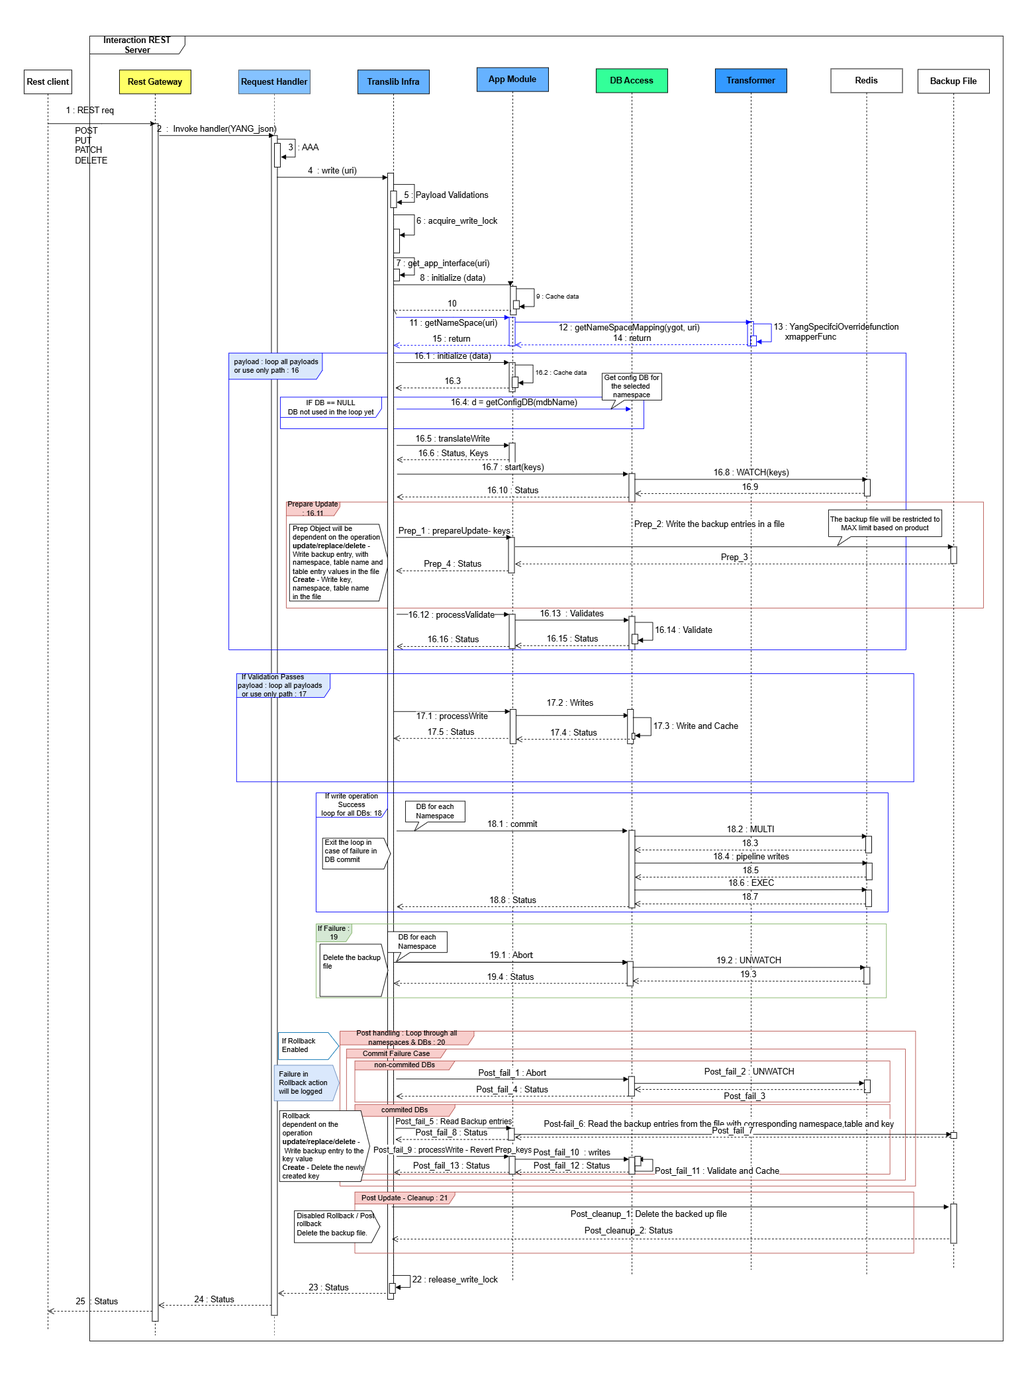
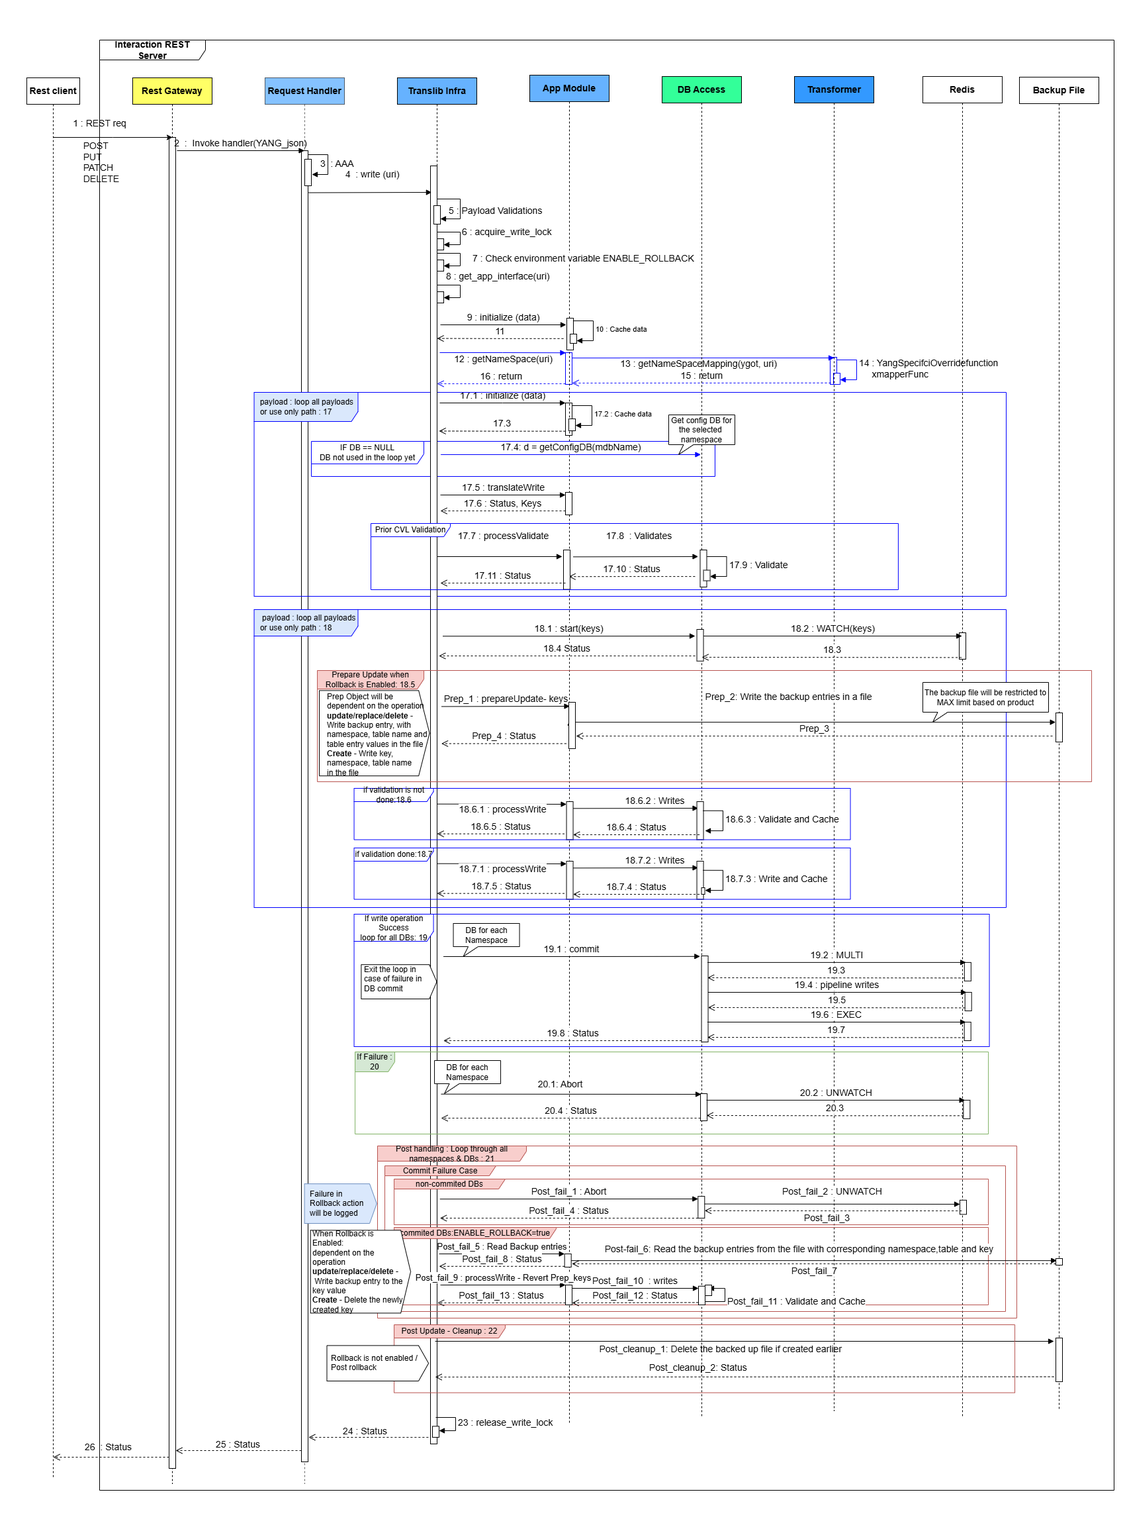
Updated HLD and sequence diagrams for prior CVL validation and configurable rollback

diff --git a/doc/mgmt/Management Framework.md b/doc/mgmt/Management Framework.md
@@ -2635,39 +2635,45 @@ mechanism for the app specific configuration.
 4. Request handler invokes one of the write APIs exposed by the Translib.
 5. Translib infra populates the YGOT structure with the payload of the request and performs a syntactic validation.
 6. Translib acquires the write lock (mutex lock) to avoid another write happening from the same process at the same time.
-7. Translib infra gets the App module corresponding to the incoming URI.
-8. Initialize the APP module with request data
-9. App module caches the incoming data into the app structure.
-10. App module returns after initializing local data.
-11. Translib infra invokes App module getNamespace() API to get namespace associated with the ygot and path.
-12. App module invokes transformer service getNamespaceMapping() to retrieve namespace based on Yang model.
-13. Transformer invokes Yang model-based exception to retrieve the namespace associated with ygot and URI.
-14. Transformer returns namespace associated with the ygot and URI.
-15. App module returns namespace.
-16. Loop through all Payloads —
+7. Check environment variable ENABLE_ROLLBACK
+8. Translib infra gets the App module corresponding to the incoming URI.
+9. Initialize the APP module with request data
+10. App module caches the incoming data into the app structure.
+11. App module returns after initializing local data.
+12. Translib infra invokes App module getNamespace() API to get namespace associated with the ygot and path.
+13. App module invokes transformer service getNamespaceMapping() to retrieve namespace based on Yang model.
+14. Transformer invokes Yang model-based exception to retrieve the namespace associated with ygot and URI.
+15. Transformer returns namespace associated with the ygot and URI.
+16. App module returns namespace.
+17. Loop through all Payloads
     1. Initialize the APP module with request data
     2. App module caches the incoming data into the app structure.
     3. App module returns after initializing local data.
     4. Get DB for the selected payload namespace
     5. App module calls Transformer function to translate the request from cached YGOT structures into Redis ABNF format. It also gets all the keys that will be affected as part of this request.
-    6. App module returns the list of keys that it wants to keep a watch on along with the status.
-    7. Translib infra invokes the start transaction request exposed by the DB access layer.
-    8. DB access layer performs a WATCH of all the keys in the Redis DB.
-    9. Status being returned from Redis.
+    6. App module returns the list of keys along with the status.
+    7. Translib then invokes the processValidate() API on the App module. 
+    8. App modules perform validation of the translated data to the DB access layer.
+    9. DB access layer validates the operation using CVL.
     10. Status being returned from DB access layer.
-    11. Translib then invokes the prepareUpdate() API on the App module. For Update, Replace, or Delete operations existing row entry for corresponding request's key is fetched from database and the following (table_name, key, row entry, operation) are written in a backup file based on namespace. For Create, only the key and table_name and operation is written in the backup file.
-    12. Translib then invokes the processValidate() API on the App module.
-    13. App modules perform validation of the translated data to the DB access layer.
-    14. DB access layer validates the operation using CVL.
-    15. Status being returned from DB access layer (validation result only).
-    16. Status being returned from App module.
-17. If Validation on all Payloads is successful:
-    1. Translib invokes the processWrite() API on the App module.
-    2. App modules perform actual writes of the translated data to the DB access layer.
-    3. DB access layer caches the writes.
+    11. Status being returned from App module.
+18. If Validation on all Payloads is successful: 
+    1. Translib infra invokes the start transaction request exposed by the DB access layer.
+    2. DB access layer performs a WATCH of all the keys in the Redis DB.
+    3. Status being returned from Redis.
     4. Status being returned from DB access layer.
-    5. Status being returned from App module.
-18. If operation on all payloads in Step 17 is successful:
+    5. Translib then invokes the prepareUpdate() API on the App module only if ENABLE_ROLLBACK=true. For Update, Replace, or Delete operations existing row entry for corresponding request's key is fetched from database and the following (table_name, key, row entry, operation) are written in a backup file based on namespace. For Create, only the key and table_name and operation is written in the backup file.
+    6. Translib invokes the processWrite() API on the App module. If validation is not done processWrite() performs CVL validation and write together.
+	1. App modules perform writes of the translated data to the DB access layer.
+	2. DB access layer validates the writes using CVL and then caches them
+	3. Status being returned from DB access layer.
+	4. Status being returned from App module.
+    7. Translib invokes the processWrite() API on the App module. If validation is already done processWrite() performs only write operation.
+	1. App modules perform actual writes of the translated data to the DB access layer.
+	2. DB access layer caches the writes .
+	3. Status being returned from DB access layer.
+	4. Status being returned from App module.
+19. If operation on all payloads in Step 17 is successful:
     1. Translib infra invokes the commit transaction on the DB access layer.
     2. DB access layer first invokes MULTI request on the Redis DB indicating there are multiple writes coming in, so commit everything together. All writes succeed or nothing succeeds.
     3. Status returned from Redis.
@@ -2676,17 +2682,20 @@ mechanism for the app specific configuration.
     6. EXEC call is made to the Redis DB.
     7. Status returned from Redis DB.
     8. Status returned from DB access layer
-19. If any operation failed in Step 16 Abort all DB transactions
+20. If any operation failed in Step 18 Abort all DB transactions
     1. Translib infra invokes the abort transaction on the DB access layer.
     2. DB access layer first invokes UNWATCH request on the Redis DB indicating abort everything together.
     3. Status returned from Redis.
     4. Status returned from DB access layer.
-20. Post Handling case : Rollback for any failure while commiting (If Rollback is Enabled)
-	Rollback actions will be continued even with failure, however failure during rollback will be logged.
-21. Release the write lock acquired in Step 6.
-22. Status returned from the Translib infra.
-23. REST status returned from the Request handler.
-24. REST response is sent by the REST Gateway to the REST client.
+21. Post Handling case : Rollback for any failure while commiting (If Rollback is Enabled else go to step 22)
+        Rollback actions will be continued even with failure, however failure during rollback will be logged.
+22. Post cleanup: delete all backup entries
+    1. Delete the backup files if created earlier.
+    2. Status being returned from file operation.
+23. Release the write lock acquired in Step 6.
+24. Status returned from the Translib infra.
+25. REST status returned from the Request handler.
+26. REST response is sent by the REST Gateway to the REST client.
 
 ### 4.2 REST GET flow
 
@@ -2798,49 +2807,55 @@ Above is the sequence diagram explaining the CVL steps. Note that interaction be
 4. Request handler invokes one of the bulk APIs exposed by the Translib.
 5. Translib infra populates the YGOT structure with the payload of the request and performs a syntactic validation
 6. Translib acquires the write lock (mutex lock) to avoid another write happening from the same process at the same time.
-7. Translib infra gets the App module corresponding to the incoming URI
-8. Translib infra calls the initialize function of the App module with the YGOT structures, path and payload.
-9. App module caches the incoming data into the app structure.
-10. App module returns after initializing local data
-11. Translib infra invoke App module getNamespace API (introduced in app interface) to get namespace associated with the uri
-12. App module invokes transformer service getNamespaceMapping to retrieve namespace based on Yang model
-13. Transformer invokes Yang model based exception to retrieve the namespace associated with uri
-14. Transformer returns namespace associated with the uri
-15. Appmodule returns namespace
-16. Loop through all Requests and payloads
+7. Check environment variable ENABLE_ROLLBACK
+8. Translib infra gets the App module corresponding to the incoming URI
+9. Translib infra calls the initialize function of the App module with the YGOT structures, path and payload.
+10. App module caches the incoming data into the app structure.
+11. App module returns after initializing local data
+12. Translib infra invoke App module getNamespace API (introduced in app interface) to get namespace associated with the uri
+13. App module invokes transformer service getNamespaceMapping to retrieve namespace based on Yang model
+14. Transformer invokes Yang model based exception to retrieve the namespace associated with uri
+15. Transformer returns namespace associated with the uri
+16. Appmodule returns namespace
+17. Loop through all Requests and payloads
     1. Translib infra calls the initialize function of the App module with the YGOT structures, path and payload.
     2. App module caches the incoming data into the app structure.
     3. App module returns after initializing local data
     4. Get the Config DB for the selected Namespace
-    5.  module calls Transformer function to translate the request from cached YGOT structures into Redis ABNF format. It also gets all the keys that will be affected as part of this request.
-    6. App module returns the list of keys that it wants to keep a watch on along with the status.
-    7. Translib infra invokes the start transaction request exposed by the DB access layer.
-    8. DB access layer performs a WATCH of all the keys in the Redis DB. If any of these keys are modified externally then the EXEC call in step 33 will fail.
-    9. Status being returned from Redis.
+    5. Module calls Transformer function to translate the request from cached YGOT structures into Redis ABNF format. It also gets all the keys that will be affected as part of this request.
+    6. App module returns the list of keys along with the status.
+    7. Translib then invokes the process Validate API on the App module.
+    8. App modules perform validation of the translated data to the DB access layer.
+    9. DB access layer validates the operation using CVL.
     10. Status being returned from DB access layer.
-    11. Prepare for update, take backup of entries to be modified in a backup file.
-    12. Translib then invokes the process Validate API on the App module.
-    13. App modules perform validation of the translated data to the DB access layer.
-    14. DB access layer validates the operation using CVL.
-    15. Status being returned from DB access layer.
-    16. Status being returned from App module.
-    12. If Set was a failure, Translib infra invokes the abort transaction on the DB access layer.
-    13. DB access layer first invokes UNWATCH request on the Redis DB indicating abort everything together.
-    14. Status retuned from Redis.
-    15. Status returned from DB access layer.
-17. If Validation on all Payloads is successful:
-    1. Translib invokes the processWrite API on the App module with WRITE mode
-    2. App modules perform actual writes of the translated data to the DB access layer.
-    3. DB access layer caches the writes .
+    11. Status being returned from App module.
+18. If Validation on all Payloads is successful:
+    1. Translib infra invokes the start transaction request exposed by the DB access layer.
+    2. DB access layer performs a WATCH of all the keys in the Redis DB. If any of these keys are modified externally then the EXEC call will fail.
+    3. Status being returned from Redis.
     4. Status being returned from DB access layer.
-    5. Status being returned from App module.
-18. If operations were successful, Translib infra invokes the commit transaction on the DB access layer.
-19. If any operation is failed, abort all DB transactions
-20. Post handling, cleanup backup data handling commit success and failure scenario      
-21. Write lock acquired in Step 6 is released.
-22. Status returned from the Translib infra.
-23. REST Status returned from the Request handler.
-24. REST response is sent by the REST gateway to the REST client.
+    5. Translib then invokes the prepareUpdate() API on the App module only if ENABLE_ROLLBACK=true. For Update, Replace, or Delete operations keys are constructed based on the original request keys and existing row entry of corresponding key is fetched from database and the following (table_name, key, row entry, operation) are written in a backup file based on namespace. For Create, only the key and table_name and operation is written in the backup file.
+    6. Translib invokes the processWrite() API on the App module. If validation is not done processWrite() performs CVL validation and write together.
+	1. App modules perform writes of the translated data to the DB access layer.  
+	2. DB access layer validates the writes using CVL and then caches them
+	3. Status being returned from DB access layer.
+	4. Status being returned from App module.
+    7. Translib invokes the processWrite() API on the App module. If validation is already done processWrite() performs only write operation.
+	1. App modules perform actual writes of the translated data to the DB access layer.
+	2. DB access layer caches the writes .
+	3. Status being returned from DB access layer.
+	4. Status being returned from App module.    
+19. If operations were successful, Translib infra invokes the commit transaction on the DB access layer.
+20. If any operation is failed, abort all DB transactions
+21. Post Handling case : Rollback for any failure while commiting (If Rollback is Enabled else go to step 22)
+        Rollback actions will be continued even with failure, however failure during rollback will be logged.
+22. Post cleanup: delete all backup entries
+    1. Delete the backup files if created earlier.
+    2. Status being returned from file operation.
+23. Release the write lock acquired in Step 6.
+24. Status returned from the Translib infra.
+25. REST status returned from the Request handler.
+26. REST response is sent by the REST Gateway to the REST client.
 
 ### 4.7 Rollback flow
 
@@ -2852,43 +2867,49 @@ Above is the sequence diagram explaining the CVL steps. Note that interaction be
 4. Request handler invokes one of the write APIs exposed by the Translib.
 5. Translib infra populates the YGOT structure with the payload of the request and performs a syntactic validation.
 6. Translib acquires the write lock (mutex lock) to avoid another write happening from the same process at the same time.
-7. Translib infra gets the App module corresponding to the incoming URI.
-8. Initialize the APP module with request data
-9. App module caches the incoming data into the app structure.
-10. App module returns after initializing local data.
-11. Translib infra invokes App module getNamespace() API to get namespace associated with the ygot and path.
-12. App module invokes transformer service getNamespaceMapping() to retrieve namespace based on Yang model.
-13. Transformer invokes Yang model-based exception to retrieve the namespace associated with ygot and URI.
-14. Transformer returns namespace associated with the ygot and URI.
-15. App module returns namespace.
-16. Loop through all Payloads  
+7. Check environment variable ENABLE_ROLLBACK
+8. Translib infra gets the App module corresponding to the incoming URI.
+9. Initialize the APP module with request data
+10. App module caches the incoming data into the app structure.
+11. App module returns after initializing local data.
+12. Translib infra invokes App module getNamespace() API to get namespace associated with the ygot and path.
+13. App module invokes transformer service getNamespaceMapping() to retrieve namespace based on Yang model.
+14. Transformer invokes Yang model-based exception to retrieve the namespace associated with ygot and URI.
+15. Transformer returns namespace associated with the ygot and URI.
+16. App module returns namespace.
+17. Loop through all Payloads
     1. Initialize the APP module with request data
     2. App module caches the incoming data into the app structure.
     3. App module returns after initializing local data.
     4. Get DB for the selected payload namespace
     5. App module calls Transformer function to translate the request from cached YGOT structures into Redis ABNF format. It also gets all the keys that will be affected as part of this request.
-    6. App module returns the list of keys that it wants to keep a watch on along with the status.
-    7. Translib infra invokes the start transaction request exposed by the DB access layer.
-    8. DB access layer performs a WATCH of all the keys in the Redis DB.
-    9. Status being returned from Redis.
+    6. App module returns the list of keys along with the status.
+    7. Translib then invokes the processValidate() API on the App module. 
+    8. App modules perform validation of the translated data to the DB access layer.
+    9. DB access layer validates the operation using CVL.
     10. Status being returned from DB access layer.
-    11. Translib then invokes the prepareUpdate() API on the App module. For Update, Replace, or Delete operations keys are constructed based on the original request keys and existing row entry of corresponding key is fetched from database and the following (table_name, key, row entry, operation) are written in a backup file based on namespace. For Create, only the key and table_name and operation is written in the backup file.     
-        1. Translib invokes the prepareUpdate() API for the keys
-        2. App modules perform operation of taking backup data in the backup file.
-        3. Status being returned from file write.
-        4. Status being returned from App module.
-    12. Translib then invokes the processValidate() API on the App module.
-    13. App modules perform validation of the translated data to the DB access layer.
-    14. DB access layer validates the operation using CVL.
-    15. Status being returned from DB access layer.
-    16. Status being returned from App module.
-17. If Validation on all Payloads is successful:
-    1. Translib invokes the processWrite() API on the App module.
-    2. App modules perform actual writes of the translated data to the DB access layer.
-    3. DB access layer caches the writes .
+    11. Status being returned from App module.
+18. If Validation on all Payloads is successful: 
+    1. Translib infra invokes the start transaction request exposed by the DB access layer.
+    2. DB access layer performs a WATCH of all the keys in the Redis DB.
+    3. Status being returned from Redis.
     4. Status being returned from DB access layer.
-    5. Status being returned from App module.
-18. If operation on all payloads is successful  
+    5. Translib then invokes the prepareUpdate() API on the App module only if ENABLE_ROLLBACK=true. For Update, Replace, or Delete operations keys are constructed based on the original request keys and existing row entry of corresponding key is fetched from database and the following (table_name, key, row entry, operation) are written in a backup file based on namespace. For Create, only the key and table_name and operation is written in the backup file.
+	1. Translib invokes the prepareUpdate() API for the keys.
+	2. App modules perform operation of taking backup data in the backup file.
+	3. Status being returned from file write.
+	4. Status being returned from App module.
+    6. Translib invokes the processWrite() API on the App module. If validation is not done processWrite() performs CVL validation and write together.
+	1. App modules perform writes of the translated data to the DB access layer.
+	2. DB access layer validates the writes using CVL and then caches them
+	3. Status being returned from DB access layer.
+	4. Status being returned from App module.
+    7. Translib invokes the processWrite() API on the App module. If validation is already done processWrite() performs only write operation.
+	1. App modules perform actual writes of the translated data to the DB access layer.
+	2. DB access layer caches the writes .
+	3. Status being returned from DB access layer.
+	4. Status being returned from App module.
+19. If operation on all payloads is successful
     1. Translib infra invokes the commit transaction on the DB access layer.
     2. DB access layer first invokes MULTI request on the Redis DB indicating there are multiple writes coming in, so commit everything together. All writes succeed or nothing succeeds.
     3. Status returned from Redis.
@@ -2897,18 +2918,18 @@ Above is the sequence diagram explaining the CVL steps. Note that interaction be
     6. EXEC call is made to the Redis DB.
     7. Status returned from Redis DB.
     8. Status returned from DB access layer
-19. If any operation on payload failed in Step 17. Abort all DB transactions  
+20. If any operation on payload failed in Step 18. Abort all DB transactions
     1. Translib infra invokes the abort transaction on the DB access layer.
     2. DB access layer first invokes UNWATCH request on the Redis DB indicating abort everything together.
     3. Status returned from Redis.
     4. Status returned from DB access layer.
-20. Post Handling case when Rollback is Enabled : Rollback for any failure while commiting
-    Rollback actions will be continued even with failure, however failure during rollback will be logged  
+21. Post Handling case : In case of failure while commiting
+    Rollback actions will be continued even with failure, however failure during rollback will be logged
     1. Non-commited DB Abort: Translib infra invokes the abort transaction on the DB access layer.
     2. Non-commited DB Abort: DB access layer first invokes UNWATCH request on the Redis DB indicating abort everything together.
     3. Non-commited DB Abort: Status returned from Redis.
     4. Non-commited DB Abort: Status returned from DB access layer
-    5. Commited DB Rollback: Revert modified entry by reading backup data from backup file
+    5. Commited DB (if ENABLE_ROLLBACK=true else go to step 22): Revert modified entry by reading backup data from backup file
     6. App modules invokes data read from backup file for corresponding keys.
     7. Status is being returned from file read.
     8. Status is being returned from App module.
@@ -2917,13 +2938,13 @@ Above is the sequence diagram explaining the CVL steps. Note that interaction be
     11. DB access layer validates the operation using CVL and then caches them.
     12. Status being returned from DB access layer.
     13. Status being returned from App module.
-21. Post cleanup: delete all backup entries
-    1. Delete the backup files.
-    2. Status being returned from file operation. 
-22. Release the write lock acquired in Step 6.
-23. Status returned from the Translib infra.
-24. REST status returned from the Request handler.
-25. REST response is sent by the REST Gateway to the REST client.
+22. Post cleanup : delete all backup entries
+    1. Delete the backup files if created earlier.
+    2. Status being returned from file operation.
+23. Release the write lock acquired in Step 6.
+24. Status returned from the Translib infra.
+25. REST status returned from the Request handler.
+26. REST response is sent by the REST Gateway to the REST client.
 
 ## 5 Developer Work flow
 Developer work flow differs for standard YANG (IETF/OpenConfig) vs proprietary YANG used for a feature. When a standards-based YANG model is chosen for a new feature, the associated Redis DB design should take the design of this model into account - the closer the mapping between these, then the less translation logic is required in the Management path. This simplifies the work flow as translation intelligence can be avoided as both Redis schema and NB YANG schema are aligned.
